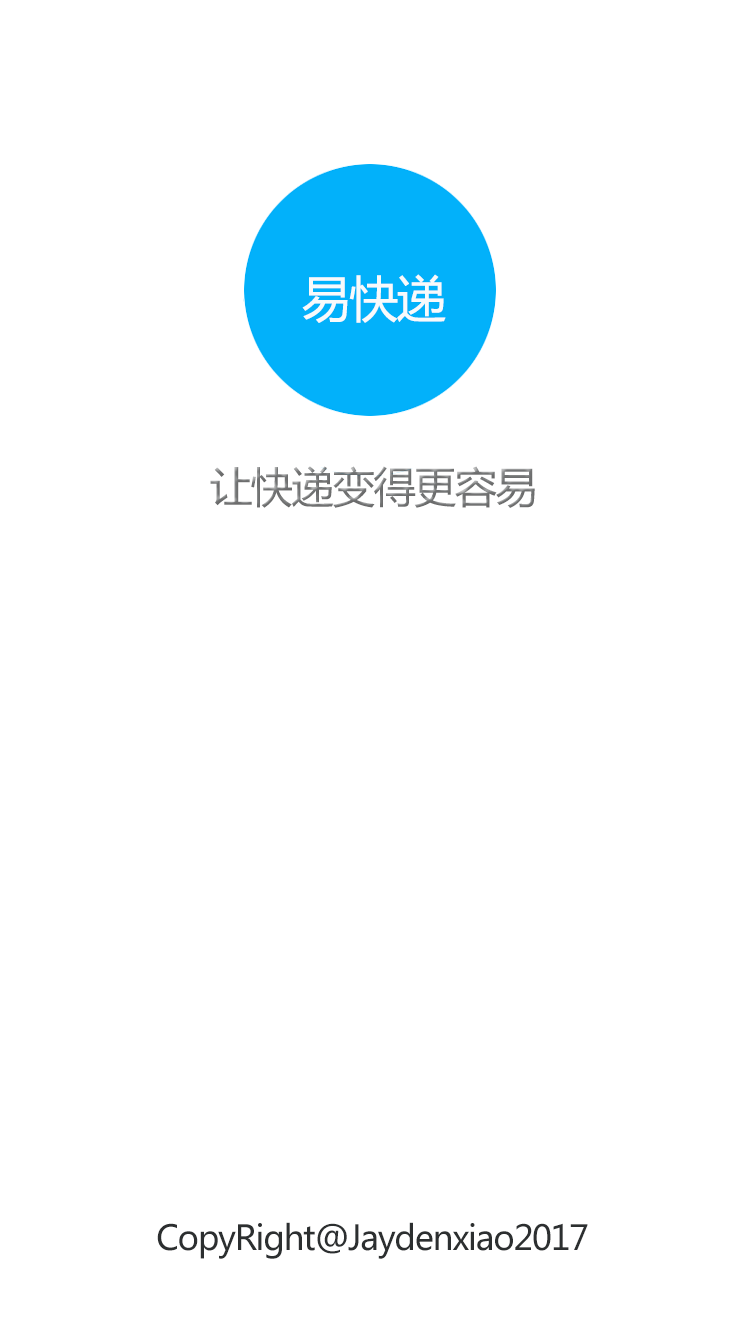
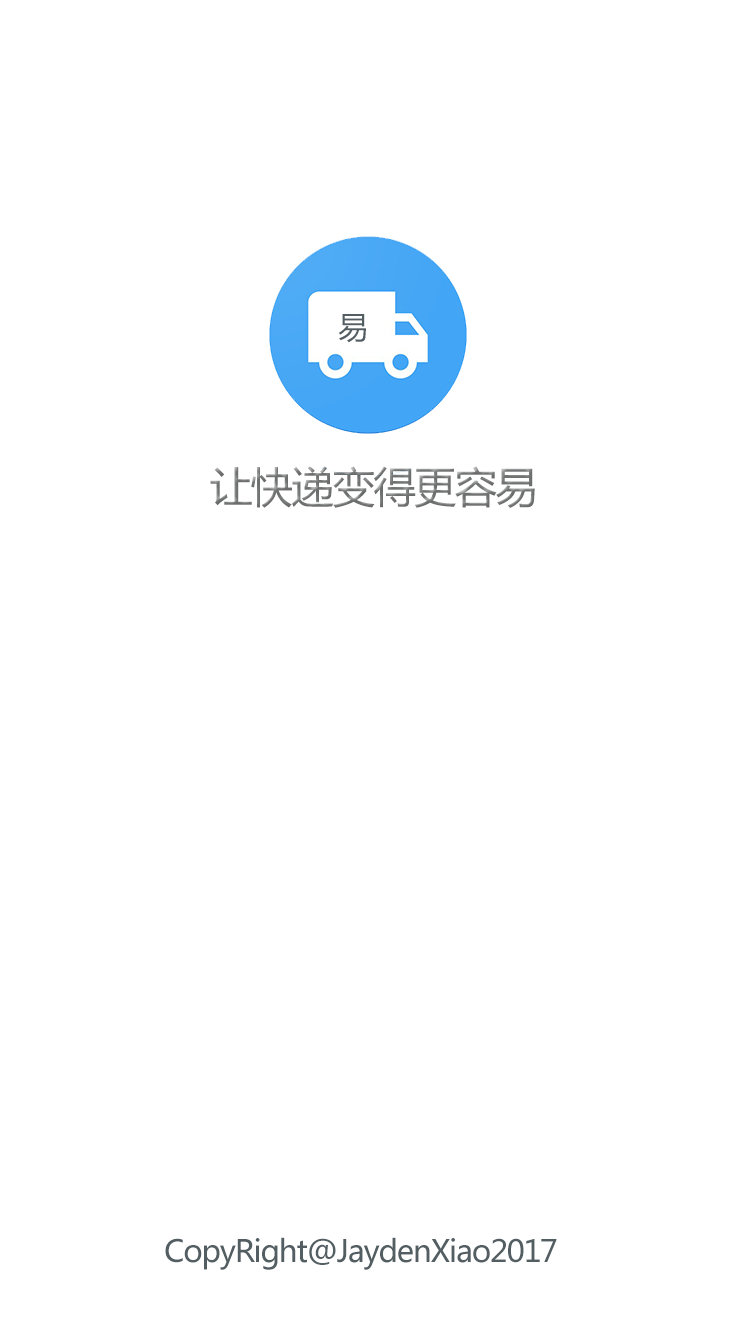
修改logo和laungh图 调整查看快递逻辑

Changed region(s): [[0.3067, 0.1229, 0.6747, 0.3381], [0.2147, 0.922, 0.7667, 0.9528]]

diff --git a/app/ui/search/SearchMainPage.js b/app/ui/search/SearchMainPage.js
@@ -59,8 +59,6 @@ export default class SearchMainPage extends Component {
                 height: 20,
             }}
         /></TouchableOpacity> : null;
-        //快递列表
-        let renderExpressListView = this.state.companyData ? this.renderExpressListView() : null;
         return (
             <View style={GlobalStyles.listView_container}>
                 {/*标题*/}
@@ -74,7 +72,7 @@ export default class SearchMainPage extends Component {
                 {/*输入框和扫描图标*/}
                 <View style={styles.scanContainerStyle}>
                     <TextInput
-                        style={[styles.inputStyle,{borderColor:this.props.theme.themeColor}]}
+                        style={[styles.inputStyle, {borderColor: this.props.theme.themeColor}]}
                         underlineColorAndroid='transparent'
                         placeholder={"请输入或扫描运单号"}
                         onfocus={true}
@@ -96,24 +94,38 @@ export default class SearchMainPage extends Component {
                     {/*扫描按钮*/}
                     <TouchableOpacity onPress={() => this._scanClick()}>
                         <Image source={require('../../res/images/ic_scan.png')}
-                               style={[{width: 35, height: 35, marginRight: 5},this.props.theme.styles.tabBarSelectedIcon]}/>
+                               style={[{
+                                   width: 35,
+                                   height: 35,
+                                   marginRight: 5
+                               }, this.props.theme.styles.tabBarSelectedIcon]}/>
                     </TouchableOpacity>
                 </View>
                 {/*快递列表*/}
-                {renderExpressListView}
+                {this.renderExpressListView()}
             </View>
         );
     }
 
+    /**
+     * 符合的快递公司列表
+     * @returns {XML}
+     */
     renderExpressListView() {
-        return <View>
-            <ListView
-                dataSource={this.state.dataSource}
-                renderRow={(e) => this.renderRow(e)}
-            />
+
+        let renderExpressListView = this.state.companyData ? <ListView
+            dataSource={this.state.dataSource}
+            renderRow={(e) => this.renderRow(e)}
+        /> : null;
+
+        let otherExpressView = this.state.expNo ?
             <TouchableOpacity style={{alignItems: 'center'}} onPress={() => this._onClickOther()}>
                 <Text style={{padding: 8, color: this.props.theme.themeColor}}>选择其他快递公司</Text>
-            </TouchableOpacity>
+            </TouchableOpacity> : null;
+
+        return <View>
+            {renderExpressListView}
+            {otherExpressView}
         </View>
     }
 
@@ -124,7 +136,7 @@ export default class SearchMainPage extends Component {
      * @param rowID
      */
     renderRow(rowData, sectionId, rowID) {
-        let logo=rowData.logo?{uri: Constants.LogoBaseUrl + rowData.logo}:require('../../res/images/ic_logo_default.png');
+        let logo = rowData.logo ? {uri: Constants.LogoBaseUrl + rowData.logo} : require('../../res/images/ic_logo_default.png');
         return <TouchableOpacity style={styles.itemStyle} onPress={() => this._onclickItem(rowData)}>
             <View style={{flexDirection: 'row', alignItems: 'center', marginLeft: 10, marginRight: 10}}>
                 <Image source={logo}
@@ -221,6 +233,10 @@ export default class SearchMainPage extends Component {
                     }
                 }
             ).catch((error) => {
+            this.setState({
+                companyData: null,
+                dataSource: this.state.dataSource.cloneWithRows([])
+            });
             console.log("接口访问错误" + error)
         });
     }
@@ -233,7 +249,7 @@ export default class SearchMainPage extends Component {
         // 遍历
         for (var i = 0; i < allCompanyDatas.length; i++) {
             let company = allCompanyDatas[i].company;
-            let logoUrl =null;
+            let logoUrl = null;
             // 4. 遍历所有的车数组
             for (var j = 0; j < company.length; j++) {
                 if (code == company[j].code) {

diff --git a/app/ui/search/SearchResultPage.js b/app/ui/search/SearchResultPage.js
@@ -210,7 +210,7 @@ export default class SearchResultPage extends Component {
                 <View style={{
                     marginLeft: 17,
                     width: 1,
-                    height: 70,
+                    height: 80,
                     backgroundColor: Colors.gray,
                     marginTop: rowID == 0 ? 6 : 0
                 }}></View>
@@ -219,7 +219,9 @@ export default class SearchResultPage extends Component {
             </View>
             {/*右部分*/}
             <View style={{marginLeft: 15, marginTop: 5, marginRight: 20, marginBottom: 10}}>
-                <Text style={{color: rowID == 0 ? Colors.black : Colors.gray}}>{rowData.AcceptStation}</Text>
+                <Text
+                    numberOfLines={3}
+                    style={{color: rowID == 0 ? Colors.black : Colors.gray}}>{rowData.AcceptStation}</Text>
                 <Text
                     style={{color: rowID == 0 ? Colors.black : Colors.gray}}>{rowData.AcceptTime}</Text>
             </View>
